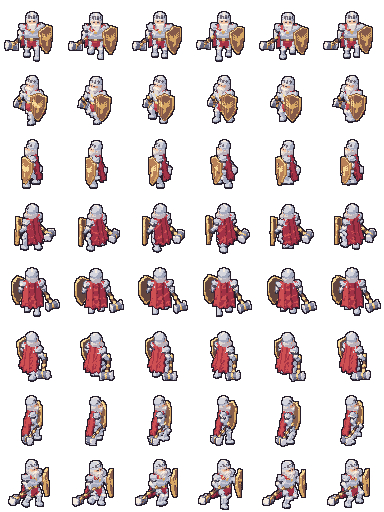
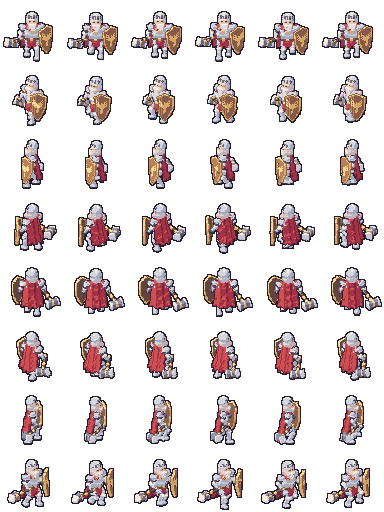
Improve readability of Rico's gear and Gard's hammer at sprite scale

diff --git a/characters/rico/build_model.py b/characters/rico/build_model.py
@@ -34,25 +34,28 @@ def build(config):
         paint(rod(el+.47*(ha-el), ha, .85, .68), "leather", "fore_"+side)
         paint(oval(ha, (.83, .84, .86)), "skin", "hand_"+side)
     # A loop on the belt faces forwards. A two-tined iron hook hangs from its knot.
-    loop = (np.sqrt(((x+2.42)/1.35)**2 + ((z-9.20)/2.0)**2)-1)**2 + ((y-2.07)/1.6)**2 <= .34**2
+    loop = (np.sqrt(((x+2.5)/1.53)**2 + ((z-9.20)/2.0)**2)-1)**2 + ((y-2.28)/1.6)**2 <= .34**2
     paint(loop, "rope", "pelvis")
-    v.path([(-2.35, 2.1, 11.0), (-2.85, 2.1, 8.2), (-3.25, 2.0, 7.2)], .46, "rope", "pelvis")
-    v.path([(-3.25, 2, 7.45), (-3.55, 2, 6.25), (-4.30, 2, 6.55), (-4.65, 2, 7.25)], .40, "iron", "pelvis")
-    v.path([(-3.55, 2, 6.25), (-2.85, 2, 6.25), (-2.48, 2, 6.81)], .38, "iron", "pelvis")
+    # Lead the loose end off the lower rim, leaving the middle of the coil open.
+    v.path([(-2.50, 2.25, 7.20), (-3.16, 2.32, 7.30), (-3.43, 2.33, 6.95)], .45, "rope", "pelvis")
+    # The hook hangs obliquely so its tips separate in both front and right profile.
+    v.path([(-3.43, 2.33, 7.14), (-3.66, 2.38, 5.98), (-4.58, 2.95, 6.22),
+            (-4.96, 3.21, 7.26)], .46, "iron", "pelvis")
+    v.path([(-3.66, 2.38, 5.98), (-2.77, 1.83, 6.12), (-2.31, 1.55, 6.88)], .43, "iron", "pelvis")
     # Quiver below the right ear. Differing shaft lengths separate the fletchings from behind.
     bottom, mouth = np.array([1.55, -3.70, 10.3]), np.array([-3.10, -3.65, 18.42])
     paint(rod(bottom, mouth, 1.05, 1.32), "leather", "chest")
     paint(rod(mouth+[.17, 0, -.30], mouth, 1.49), "brass", "chest")
-    for dx, dy, length in [(-.83, -.4, 3.85), (.06, -.72, 4.90), (.72, .25, 3.28)]:
+    for dx, dy, length in [(-.90, -.4, 3.85), (.06, -.72, 5.30), (.79, .25, 3.28)]:
         a = mouth + [dx, dy, -.32]
         b = a + [(-.64+.20*dx)*length, -.65, length]
         paint(rod(a, b, .34), "wood", "chest")
-        paint(rod(b+[.34, 0, -.88], b, .59, .34), "fletching", "chest")
+        paint(rod(b+[.64, 0, -1.48], b+[-.15, 0, .12], .70, .34), "fletching", "chest")
     collar = oval((0, -.1, 17.65), (3.69, 2.72, 1.55))
     paint(collar, "moss", "chest")
-    paint(oval((0, .66, 17.45), (2.69, 2.50, 1.15)), "saffron", "chest")
+    paint(oval((0, .76, 17.45), (2.69, 2.55, 1.19)), "saffron", "chest")
     v.path([(.62, 2.18, 17.45), (1.85, 2.75, 16.1), (2.85, 3.35, 14.7),
-            (3.15, 3.55, 13.7)], .74, "saffron", "chest")
+            (3.15, 3.55, 13.7)], .78, "saffron", "chest")
     paint(oval((0, .15, 20.62), (2.98, 2.66, 3.02), 2.25), "skin", "head")
     for s in (-1, 1):
         paint(oval((s*2.66, .36, 20.55), (.71, .83, 1.03)), "skin", "head")

diff --git a/characters/gard/build_model.py b/characters/gard/build_model.py
@@ -88,8 +88,8 @@ def build(config):
     u = delta @ np.array([.91, -.36, -.20])
     w = delta @ np.array([.37, .93, 0])
     h = delta @ np.array([.186, -.074, .98])
-    spread = 1.5 + .15*np.abs(u)
-    block = (np.abs(u) <= 4.0) & ((np.abs(w)/spread)**4 + (np.abs(h)/(spread+.25))**4 <= 1)
+    spread = 1.73 + .15*np.abs(u)
+    block = (np.abs(u) <= 4.28) & ((np.abs(w)/spread)**4 + (np.abs(h)/(spread+.25))**4 <= 1)
     paint(block, "hammer iron", "hammer")
     paint(block & (np.abs(u) > 3.15), "bright steel", "hammer")
     paint(block & (np.abs(u) < .66), "gold", "hammer")

diff --git a/research/adventurers/README.md b/research/adventurers/README.md
@@ -77,10 +77,10 @@ $id = 'gard'
 
 | 実測値 | ガルド | リコ | セナ |
 | --- | --- | --- | --- |
-| 歩行48コマでの装備の最小可視画素 | ハンマー11、盾62 | 弓23、矢羽2 | 杖全体13、水晶8 |
-| 待機32コマでの最小可視画素 | ハンマー26、盾71 | 弓34、矢羽1 | 杖全体9、水晶7 |
+| 歩行48コマでの装備の最小可視画素 | ハンマー28、盾62 | 弓23、矢羽3 | 杖全体13、水晶8 |
+| 待機32コマでの最小可視画素 | ハンマー45、盾71 | 弓34、矢羽2 | 杖全体9、水晶7 |
 | 歩行中の装備の最低高さ（モデル単位） | ハンマー2.0、盾4.5 | 弓2.5 | 杖2.5 |
-| 待機／歩行の最小透明余白 | 3 / 1 px | 4 / 3 px | 2 / 2 px |
+| 待機／歩行の最小透明余白 | 3 / 2 px | 4 / 3 px | 2 / 2 px |
 
 全員の支持足マーカーは規定前進量を相殺して静止し、ブーツは支持区間だけ床面に接する。描画した靴底と床面投影の差は全方向で最大1 px。待機では両ブーツの立体が全コマで静止姿勢に一致する。手と装備は全コマで接触し、歩行時の目の材質は各方向で可視画素数を維持する。
 
@@ -91,7 +91,16 @@ $id = 'gard'
 ブラウザの同じ石畳に3人を並べ、1×・通常速度で全8方向を再生した。各方向で3人それぞれの待機4コマ、歩行6コマが一巡することを表示コマからも確認した。単独表示、停止と再開、待機と歩行の往復、表示倍率と床面移動を操作した。
 
 - **ガルド**　Sでは白髭、銀の肩甲、左右の装備が分かれる。Wでは盾が前、ハンマーが奥に回る。初版の歩行4コマ目ではハンマーが完全に隠れたため、頭部の位置を右後方へ移した。最終版はWでも輪郭が残り、Nでは深紅の背面と交互に出る靴底が見える。
-- **リコ**　S・SEでは黄布と短いズボン、NW・Nではフードから外に出た矢羽と斜めの矢筒が目印になる。左手の弓は横向きに細くなる。鉤は右腰に固定されており、奥側になるW・NWでは身体に隠れる。S・NE・E・SEの待機と歩行では金属の鉤を継続して確認できる。
+- **リコ**　S・SEでは黄布と短いズボン、NW・Nではフードから外に出た矢羽と斜めの矢筒が目印になる。左手の弓は横向きに細くなる。鉤は右腰に固定され、NWでは身体に隠れる。Wでは端が最大2画素だけのぞく。S・NE・E・SEでは待機・歩行のどのコマにも金属部分が4画素以上見える。
 - **セナ**　S・SEでは淡色の前身頃が開き、N・NEでは濃い背面に銀髪が重なる。W・NWの待機で上端に触れた杖は、画素密度と杖冠の高さを調整した。歩行の片脚支持でも裾から靴が見え、水晶の位置は握りと一緒に移る。
 
 原寸では盾の羽根、ロープの撚り、ローブの刺繍を色のまとまりに簡略化した。6コマの歩行は一定速度の平地ループ。方向転換の補間、段差・坂道への接地、実ゲーム側の当たり判定は検証範囲外。
+
+### リコとガルドの調整前後
+
+![同じ向き・同じコマの2倍表示。上段はリコのスカーフ・矢羽・鉤縄、下段はガルドの槌頭と足元。各組の左が調整前、右が調整後](detail-comparison.png)
+
+- **リコ**　黄布を少し明るい黄に寄せ、首の前の巻きと垂れ端をわずかに太くした。S待機で見える黄布は29〜33画素から33〜36画素になった。フードの大きさを保ちながら、既存の3本の矢羽に長さと高低差をつけた。N歩行で見える羽色の最小面積は9画素から14画素に増えた。右腰では巻き縄の下から鉤を吊り、二股の先に奥行きをつけた。
+- **ガルド**　右手の握りを支点に柄を少し起こし、槌頭の両端と断面を広げた。W歩行1コマ目では盾の奥に見える槌頭の金属面が幅2画素から5画素、面積10画素から26画素になった。NW・NEの歩行では全コマで金属面がそれぞれ94画素以上・98画素以上見える。途中案で槌頭が支持足を隠したNE歩行5コマ目も、採用版では靴底が床面投影と同じ行に現れる。
+
+調整前の基準は `cd17d12`。画素数は画面上で見える対象部位の材質を数えた値。槌頭の金属面には鉄と明色の鋼を含む。8方向をブラウザで1×・通常速度で比較し、上図は同じコマを最近傍で2倍に拡大した。
